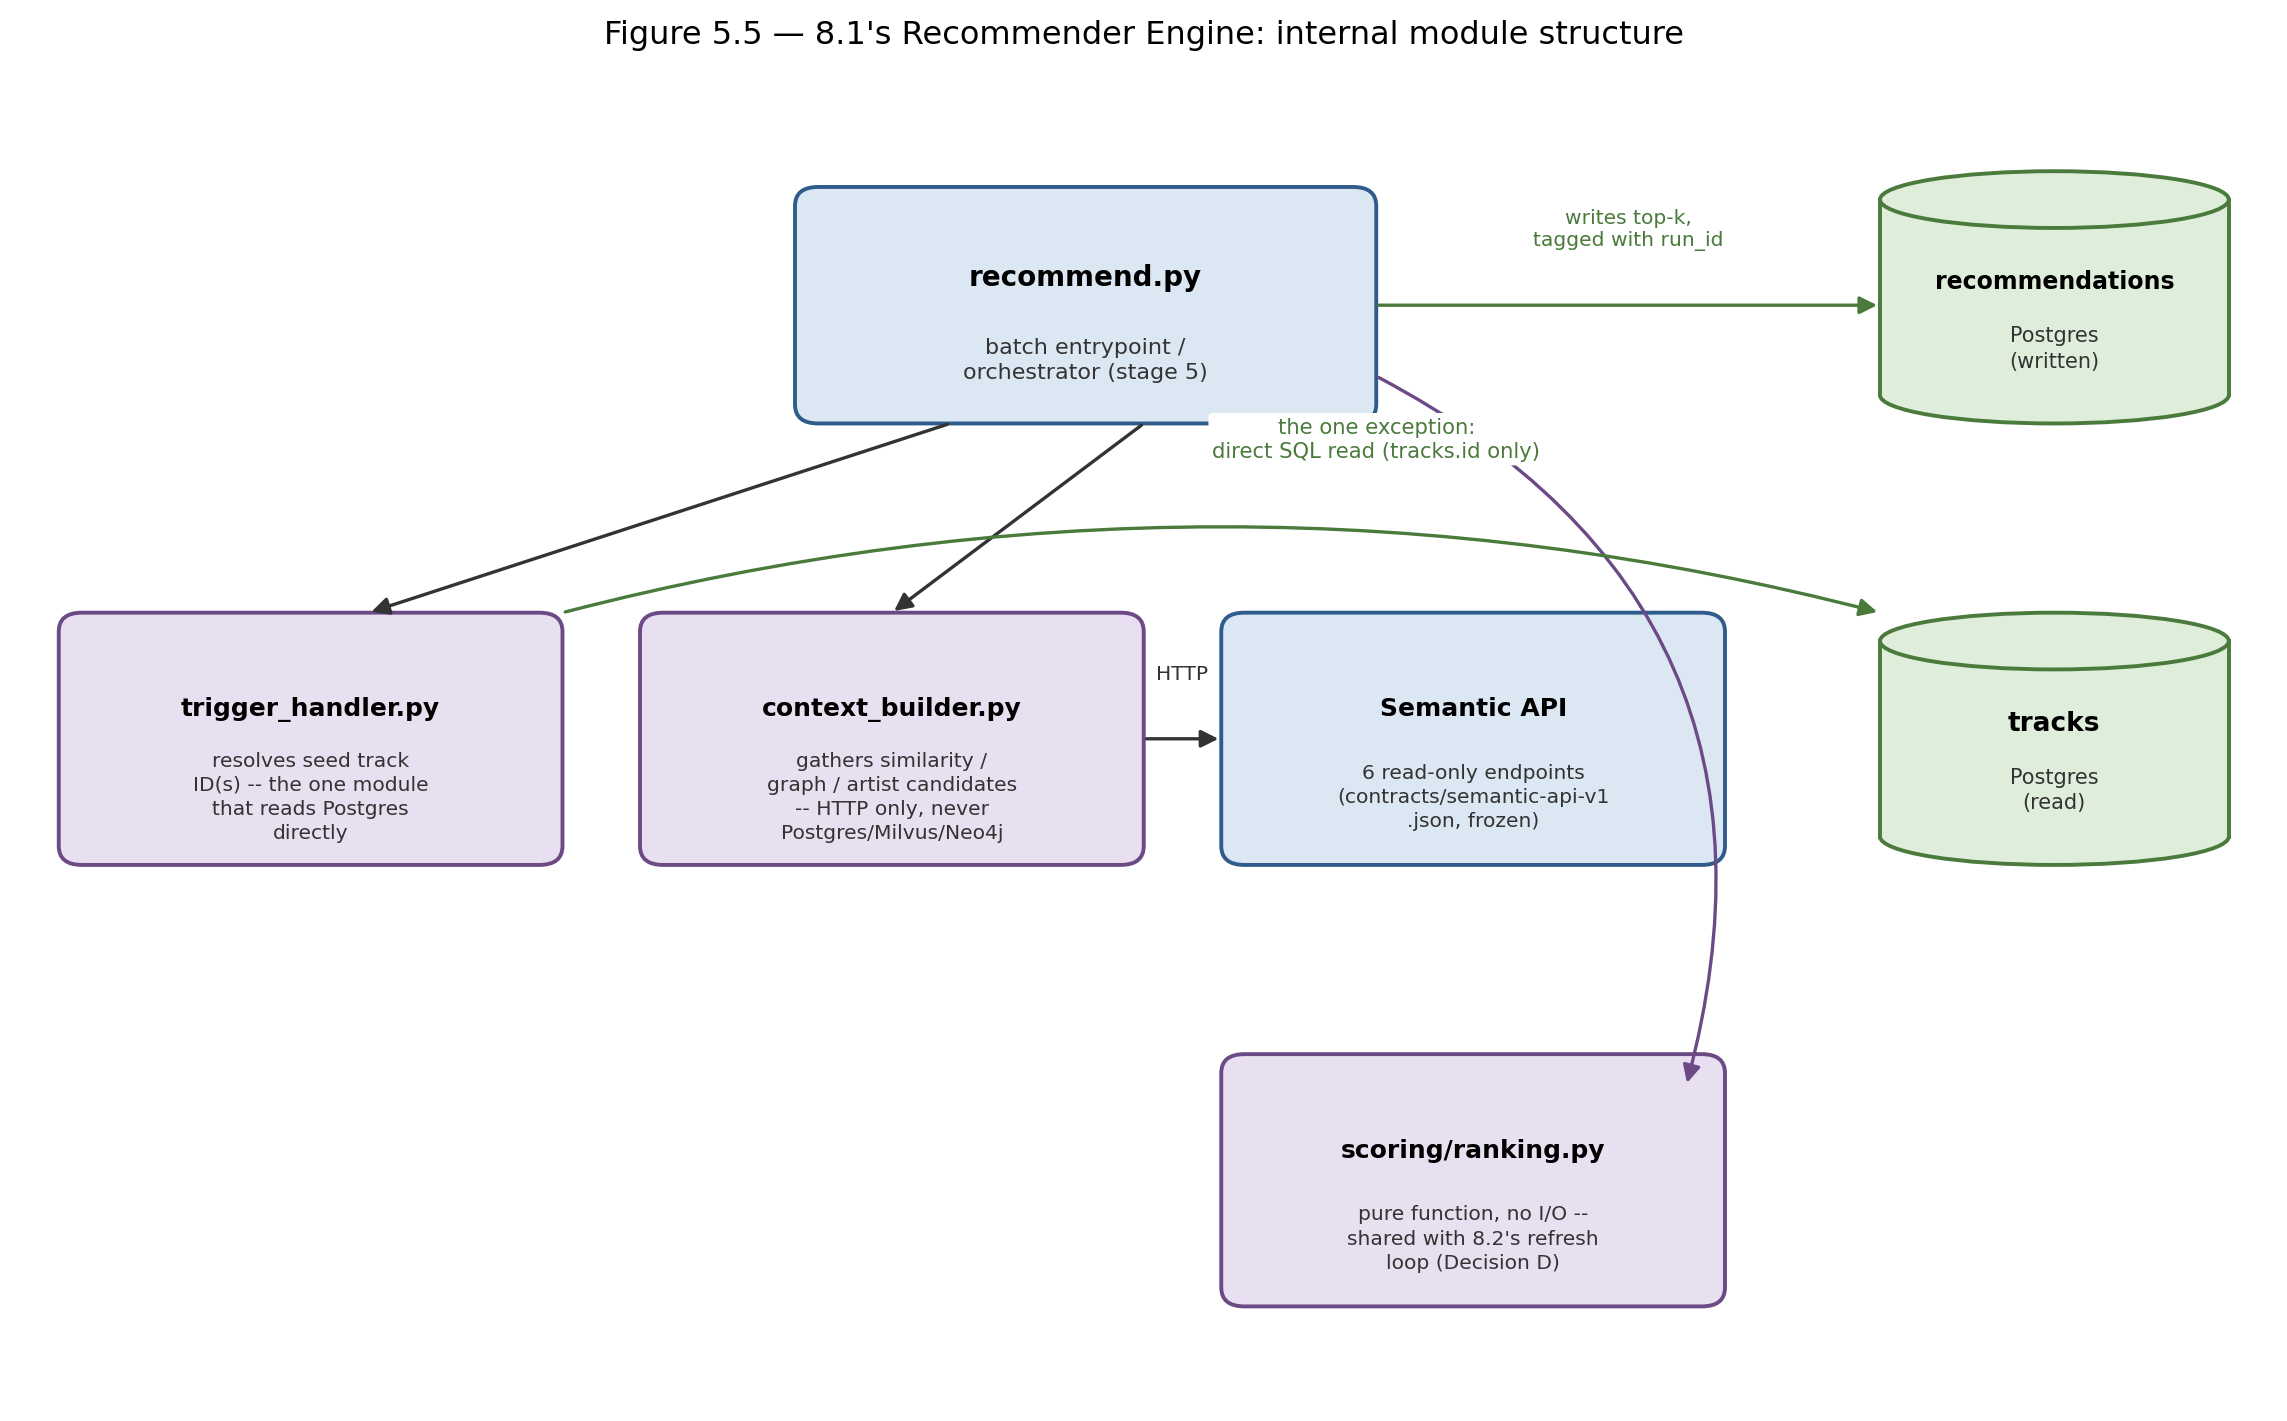
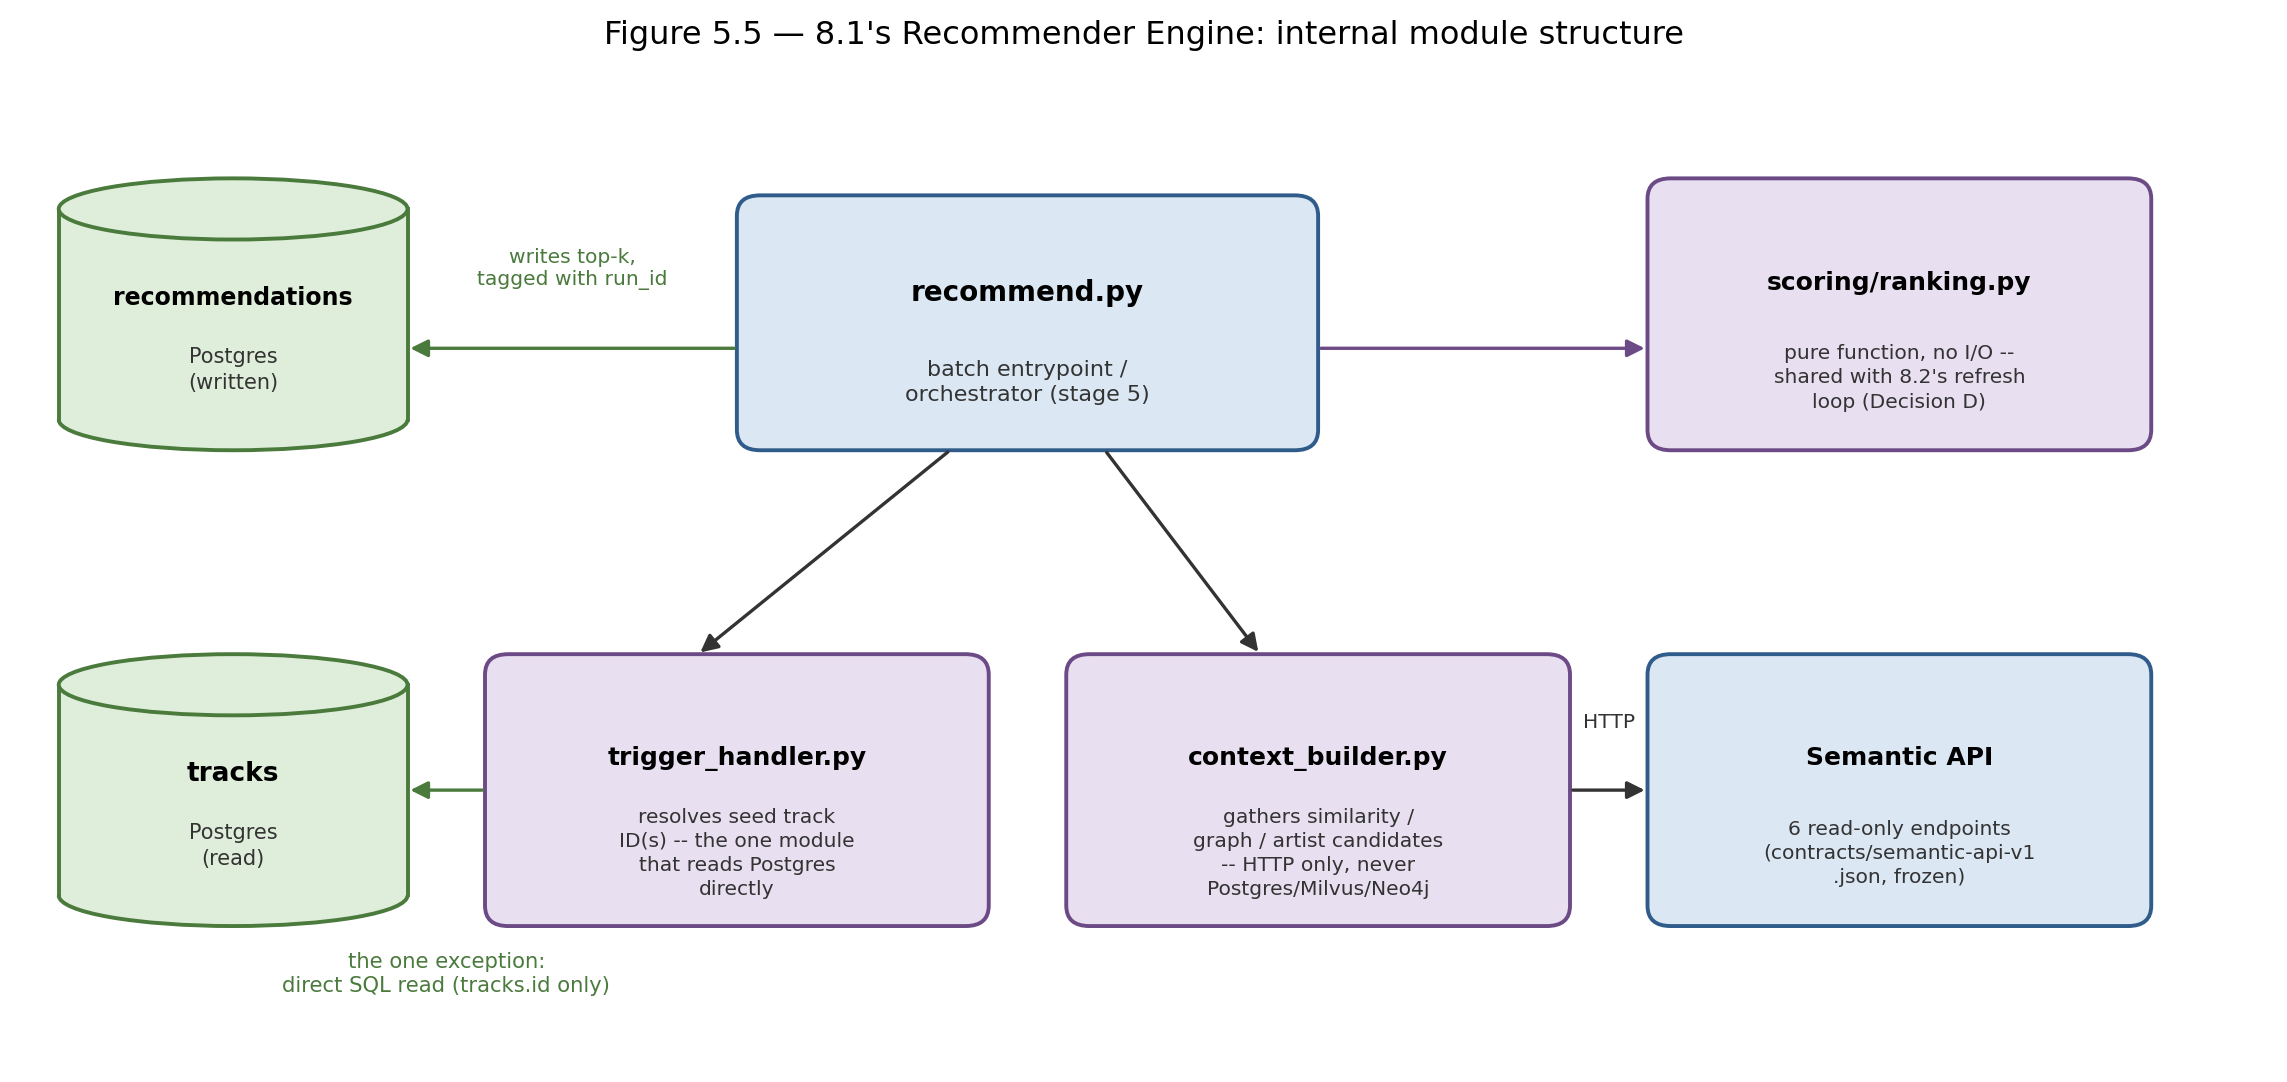
docs: redesign Figure 5.5's layout instead of routing arrows around it
Rerouting recommend.py -> scoring/ranking.py and trigger_handler.py ->
tracks around intervening boxes (previous commit) worked but was solving
a layout problem with routing. Restructured the layout instead: each
store now sits beside its one and only caller (recommendations next to
recommend.py, tracks next to trigger_handler.py), and scoring/ranking.py
moved into recommend.py's row -- it has no relationship to Semantic API
in this diagram, so nothing constrained its position, and placing it
there turns the arrow into a short same-row straight line. Every
connection in the figure is now a short straight line between adjacent
or vertically-aligned boxes; verified programmatically (no box's
interior contains any point of any other arrow's path).

thesis/thesis.docx rebuilt (64 pages, unchanged).

diff --git a/thesis/figures/make_82_diagrams.py b/thesis/figures/make_82_diagrams.py
@@ -529,48 +529,50 @@ def fig_architecture():
 # Figure 5.5 -- 8.1's internal module structure (Chapter 5, Section 5.6.1)
 # --------------------------------------------------------------------------
 def fig_uc81_modules():
-    fig, ax = canvas(14.5, 8.6, xlim=(0, 116), ylim=(0, 84))
+    fig, ax = canvas(14.5, 6.4, xlim=(0, 116), ylim=(26, 84))
 
-    box(ax, 40, 62, 30, 15, "recommend.py",
+    # Two rows, four columns, each store paired with its one and only
+    # caller's column: tracks with trigger_handler.py (the one module that
+    # reads it), recommendations with recommend.py (the only writer).
+    # scoring/ranking.py has no relationship to Semantic API in this
+    # diagram -- it is placed in the top row next to recommend.py (its only
+    # caller) purely because nothing else constrains where it goes, which
+    # turns recommend.py -> scoring/ranking.py into a same-row, same-height
+    # straight line instead of a detour around Semantic API below it.
+    cylinder(ax, 2, 62, 18, 16, "recommendations", "Postgres\n(written)", fs=8.5, sub_fs=7.5)
+    box(ax, 37, 62, 30, 15, "recommend.py",
         "batch entrypoint /\norchestrator (stage 5)", fs=10, sub_fs=8)
-
-    box(ax, 2, 34, 26, 16, "trigger_handler.py",
-        "resolves seed track\nID(s) -- the one module\nthat reads Postgres\ndirectly", "compute", fs=9, sub_fs=7.3)
-    box(ax, 32, 34, 26, 16, "context_builder.py",
-        "gathers similarity /\ngraph / artist candidates\n-- HTTP only, never\nPostgres/Milvus/Neo4j", "compute", fs=9, sub_fs=7.3)
-    box(ax, 62, 34, 26, 16, "Semantic API",
-        "6 read-only endpoints\n(contracts/semantic-api-v1\n.json, frozen)", fs=9, sub_fs=7.3)
-    box(ax, 62, 6, 26, 16, "scoring/ranking.py",
+    box(ax, 84, 62, 26, 16, "scoring/ranking.py",
         "pure function, no I/O --\nshared with 8.2's refresh\nloop (Decision D)", "compute", fs=9, sub_fs=7.3)
 
-    cylinder(ax, 96, 34, 18, 16, "tracks", "Postgres\n(read)", fs=9.5, sub_fs=7.5)
-    cylinder(ax, 96, 62, 18, 16, "recommendations", "Postgres\n(written)", fs=8.5, sub_fs=7.5)
+    cylinder(ax, 2, 34, 18, 16, "tracks", "Postgres\n(read)", fs=9.5, sub_fs=7.5)
+    box(ax, 24, 34, 26, 16, "trigger_handler.py",
+        "resolves seed track\nID(s) -- the one module\nthat reads Postgres\ndirectly", "compute", fs=9, sub_fs=7.3)
+    box(ax, 54, 34, 26, 16, "context_builder.py",
+        "gathers similarity /\ngraph / artist candidates\n-- HTTP only, never\nPostgres/Milvus/Neo4j", "compute", fs=9, sub_fs=7.3)
+    box(ax, 84, 34, 26, 16, "Semantic API",
+        "6 read-only endpoints\n(contracts/semantic-api-v1\n.json, frozen)", fs=9, sub_fs=7.3)
 
-    # recommend.py calls all three modules directly -- ranking sits under the
-    # Semantic API column so this arrow never has to cross context_builder;
-    # it swings around the Semantic API box's right side instead of cutting
-    # through it, since a straight line from recommend.py to scoring/ranking.py
-    # would otherwise pass directly through the Semantic API box.
-    arrow(ax, (48, 62), (18, 50))
-    arrow(ax, (58, 62), (45, 50))
-    arrow(ax, (70, 65), (86, 20), None, rad=-0.4, color="#6b4a86")
+    # recommend.py calls all three modules directly -- every arrow below is
+    # a straight line within its own row or straight down into the row
+    # beneath, none crossing a third box, since each source/target pair now
+    # sits in adjacent or vertically-aligned columns.
+    arrow(ax, (48, 62), (35, 50))
+    arrow(ax, (56, 62), (64, 50))
+    arrow(ax, (67, 68), (84, 68), None, color="#6b4a86")
 
-    # trigger_handler is the one module that bypasses the Semantic API --
-    # routed up through the gap above the middle row (a straight or
-    # low-dipping line would cut through context_builder.py, Semantic API
-    # and/or scoring/ranking.py, all of which sit between the two endpoints)
-    arrow(ax, (28, 50), (96, 50),
-          "the one exception:\ndirect SQL read (tracks.id only)",
-          rad=-0.13, color="#4a7a3c", fs=7.6, lx=8, ly=11)
+    arrow(ax, (37, 68), (20, 68), None, color="#4a7a3c")
+    ax.text(28.5, 71.5, "writes top-k,\ntagged with run_id", ha="center", va="bottom",
+            fontsize=7.3, color="#4a7a3c")
+
+    # trigger_handler is the one module that bypasses the Semantic API
+    arrow(ax, (24, 42), (20, 42), None, color="#4a7a3c")
+    ax.text(22, 32.5, "the one exception:\ndirect SQL read (tracks.id only)",
+            ha="center", va="top", fontsize=7.6, color="#4a7a3c")
 
     # context_builder talks only to the Semantic API
-    arrow(ax, (58, 42), (62, 42))
-    ax.text(60, 45.5, "HTTP", ha="center", va="bottom", fontsize=7.3, color="#333333")
-
-    # recommend.py writes the ranked output
-    arrow(ax, (70, 69.5), (96, 69.5), None, color="#4a7a3c")
-    ax.text(83, 73, "writes top-k,\ntagged with run_id", ha="center", va="bottom",
-            fontsize=7.3, color="#4a7a3c")
+    arrow(ax, (80, 42), (84, 42))
+    ax.text(82, 45.5, "HTTP", ha="center", va="bottom", fontsize=7.3, color="#333333")
 
     ax.set_title("Figure 5.5 — 8.1's Recommender Engine: internal module structure",
                  fontsize=11.5, pad=12)
